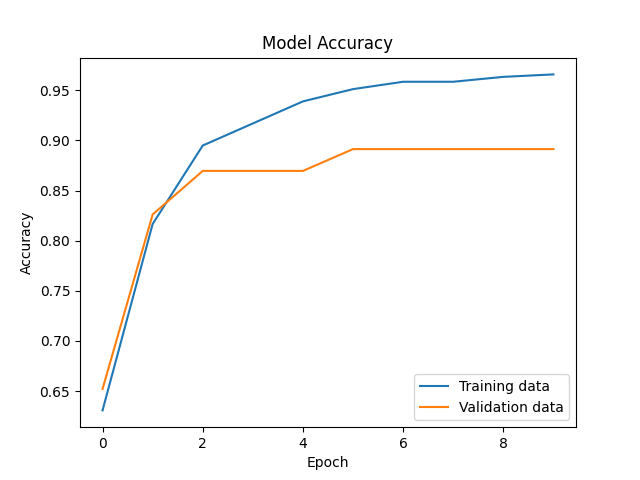
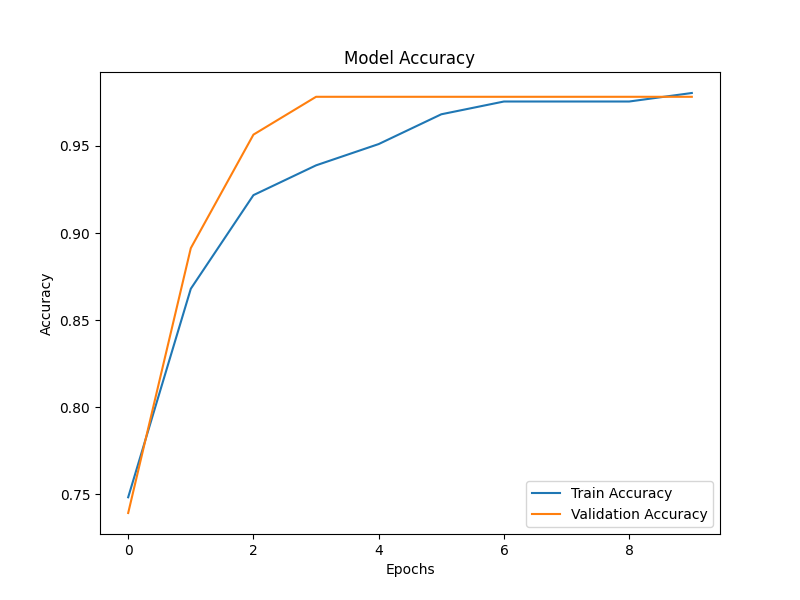
Improved accuracy by using sigmoid in output layer

diff --git a/src/predict.py b/src/predict.py
@@ -1,13 +1,8 @@
 import numpy as np
 import pickle
-import os
 from tensorflow.keras.models import load_model
 from .config import MODEL_PATH, SCALER_PATH
 from .data_loader import load_data
-import pandas as pd
-
-RESULTS_DIR = "results"
-os.makedirs(RESULTS_DIR, exist_ok=True)
 
 def predict_single(input_data):
     # Load scaler
@@ -17,32 +12,27 @@ def predict_single(input_data):
     # Load trained model
     model = load_model(MODEL_PATH)
 
+    # Preprocess input
     input_data_as_numpy_array = np.asarray(input_data)
     input_data_reshaped = input_data_as_numpy_array.reshape(1, -1)
     input_data_std = scaler.transform(input_data_reshaped)
 
+    # Predict
     prediction = model.predict(input_data_std, verbose=0)
     prediction_label = np.argmax(prediction)
 
-    # Save result
-    result_file = os.path.join(RESULTS_DIR, "prediction_results.csv")
-    df = pd.DataFrame([{
-        "input": input_data.tolist(),
-        "prediction": int(prediction_label)
-    }])
-    if os.path.exists(result_file):
-        df.to_csv(result_file, mode='a', header=False, index=False)
-    else:
-        df.to_csv(result_file, index=False)
-
     return prediction_label
 
+
 if __name__ == "__main__":
+    # Get data
     X_train, X_test, y_train, y_test = load_data()
+    
+    # Pick one sample
     sample = X_test[0]
-    true_label = y_test.iloc[0]
+    true_label = y_test[0]   # notebook style, no .iloc
 
     pred = predict_single(sample)
 
-    print(" True Label:", "Benign (1)" if true_label == 1 else "Malignant (0)")
-    print(" Predicted Label:", "Benign (1)" if pred == 1 else "Malignant (0)")
+    print("True Label:", "Benign (1)" if true_label == 1 else "Malignant (0)")
+    print("Predicted Label:", "Benign (1)" if pred == 1 else "Malignant (0)")

diff --git a/src/train_utils.py b/src/train_utils.py
@@ -2,27 +2,31 @@ import matplotlib.pyplot as plt
 import os
 
 PLOTS_DIR = "plots"
-os.makedirs(PLOTS_DIR, exist_ok=True)  # Create folder if not exists
+os.makedirs(PLOTS_DIR, exist_ok=True)
 
 def plot_history(history):
-    # Accuracy
-    plt.figure()
-    plt.plot(history.history['accuracy'])
-    plt.plot(history.history['val_accuracy'])
-    plt.title('Model Accuracy')
+    # Accuracy plot
+    plt.figure(figsize=(8, 6))
+    plt.plot(history.history['accuracy'], label='Train Accuracy')
+    plt.plot(history.history['val_accuracy'], label='Validation Accuracy')
+    plt.xlabel('Epochs')
     plt.ylabel('Accuracy')
-    plt.xlabel('Epoch')
-    plt.legend(['Training data', 'Validation data'], loc='lower right')
-    plt.savefig(os.path.join(PLOTS_DIR, "accuracy.png"))
-    plt.close()  # Close figure to free memory
-
-    # Loss
-    plt.figure()
-    plt.plot(history.history['loss'])
-    plt.plot(history.history['val_loss'])
-    plt.title('Model Loss')
-    plt.ylabel('Loss')
-    plt.xlabel('Epoch')
-    plt.legend(['Training data', 'Validation data'], loc='upper right')
-    plt.savefig(os.path.join(PLOTS_DIR, "loss.png"))
+    plt.title('Model Accuracy')
+    plt.legend()
+    acc_path = os.path.join(PLOTS_DIR, "accuracy.png")
+    plt.savefig(acc_path)
     plt.close()
+
+    # Loss plot
+    plt.figure(figsize=(8, 6))
+    plt.plot(history.history['loss'], label='Train Loss')
+    plt.plot(history.history['val_loss'], label='Validation Loss')
+    plt.xlabel('Epochs')
+    plt.ylabel('Loss')
+    plt.title('Model Loss')
+    plt.legend()
+    loss_path = os.path.join(PLOTS_DIR, "loss.png")
+    plt.savefig(loss_path)
+    plt.close()
+
+    print(f"Training plots saved to {PLOTS_DIR}")

diff --git a/src/data_loader.py b/src/data_loader.py
@@ -1,30 +1,32 @@
-# Data loading and preprocessing
-
 import pandas as pd
-from sklearn.datasets import load_breast_cancer
+import sklearn.datasets
 from sklearn.model_selection import train_test_split
 from sklearn.preprocessing import StandardScaler
-import pickle
-from .config import SCALER_PATH
+import joblib
+from src.config import SCALER_PATH
 
 def load_data():
-    # Load sklearn dataset
-    data = load_breast_cancer()
-    X = pd.DataFrame(data.data, columns=data.feature_names)
-    y = pd.Series(data.target)
+    # Load dataset
+    breast_cancer_dataset = sklearn.datasets.load_breast_cancer()
 
-    # Train-test split
-    X_train, X_test, y_train, y_test = train_test_split(
-        X, y, test_size=0.2, random_state=2, stratify=y
-    )
+    # Create dataframe with features
+    data_frame = pd.DataFrame(breast_cancer_dataset.data, columns=breast_cancer_dataset.feature_names)
 
-    # Standardize
+    # Add target column (same as notebook)
+    data_frame['label'] = breast_cancer_dataset.target
+
+    # Separate features and target
+    X = data_frame.drop(columns='label')
+    y = data_frame['label']
+
+    # Split
+    X_train, X_test, y_train, y_test = train_test_split(X, y, test_size=0.2, random_state=2)
+
+    # Scale
     scaler = StandardScaler()
-    X_train_std = scaler.fit_transform(X_train)
-    X_test_std = scaler.transform(X_test)
+    X_train = scaler.fit_transform(X_train)
+    X_test = scaler.transform(X_test)
 
-    # Save scaler
-    with open(SCALER_PATH, "wb") as f:
-        pickle.dump(scaler, f)
+    joblib.dump(scaler, SCALER_PATH)
 
-    return X_train_std, X_test_std, y_train, y_test
+    return X_train, X_test, y_train, y_test

diff --git a/src/model.py b/src/model.py
@@ -1,12 +1,10 @@
-# Neural network architecture (exactly notebook wali)
-
 from tensorflow import keras
 
 def create_model(input_dim=30):
     model = keras.Sequential([
         keras.layers.Flatten(input_shape=(input_dim,)),
         keras.layers.Dense(20, activation='relu'),
-        keras.layers.Dense(2, activation='sigmoid')
+        keras.layers.Dense(2, activation='sigmoid')   
     ])
 
     model.compile(optimizer='adam',

diff --git a/train.py b/train.py
@@ -8,13 +8,12 @@ from src.train_utils import plot_history
 def train():
     X_train, X_test, y_train, y_test = load_data()
 
-    model = create_model(input_dim=X_train.shape[1])
+    model = create_model(input_dim=30)
 
     history = model.fit(
         X_train, y_train,
         validation_split=0.1,
-        epochs=10,
-        verbose=1
+        epochs=10   
     )
 
     plot_history(history)

diff --git a/src/eda.py b/src/eda.py
@@ -1,5 +1,3 @@
-# EDA (Exploratory Data Analysis)
-
 import pandas as pd
 import seaborn as sns
 import matplotlib.pyplot as plt
